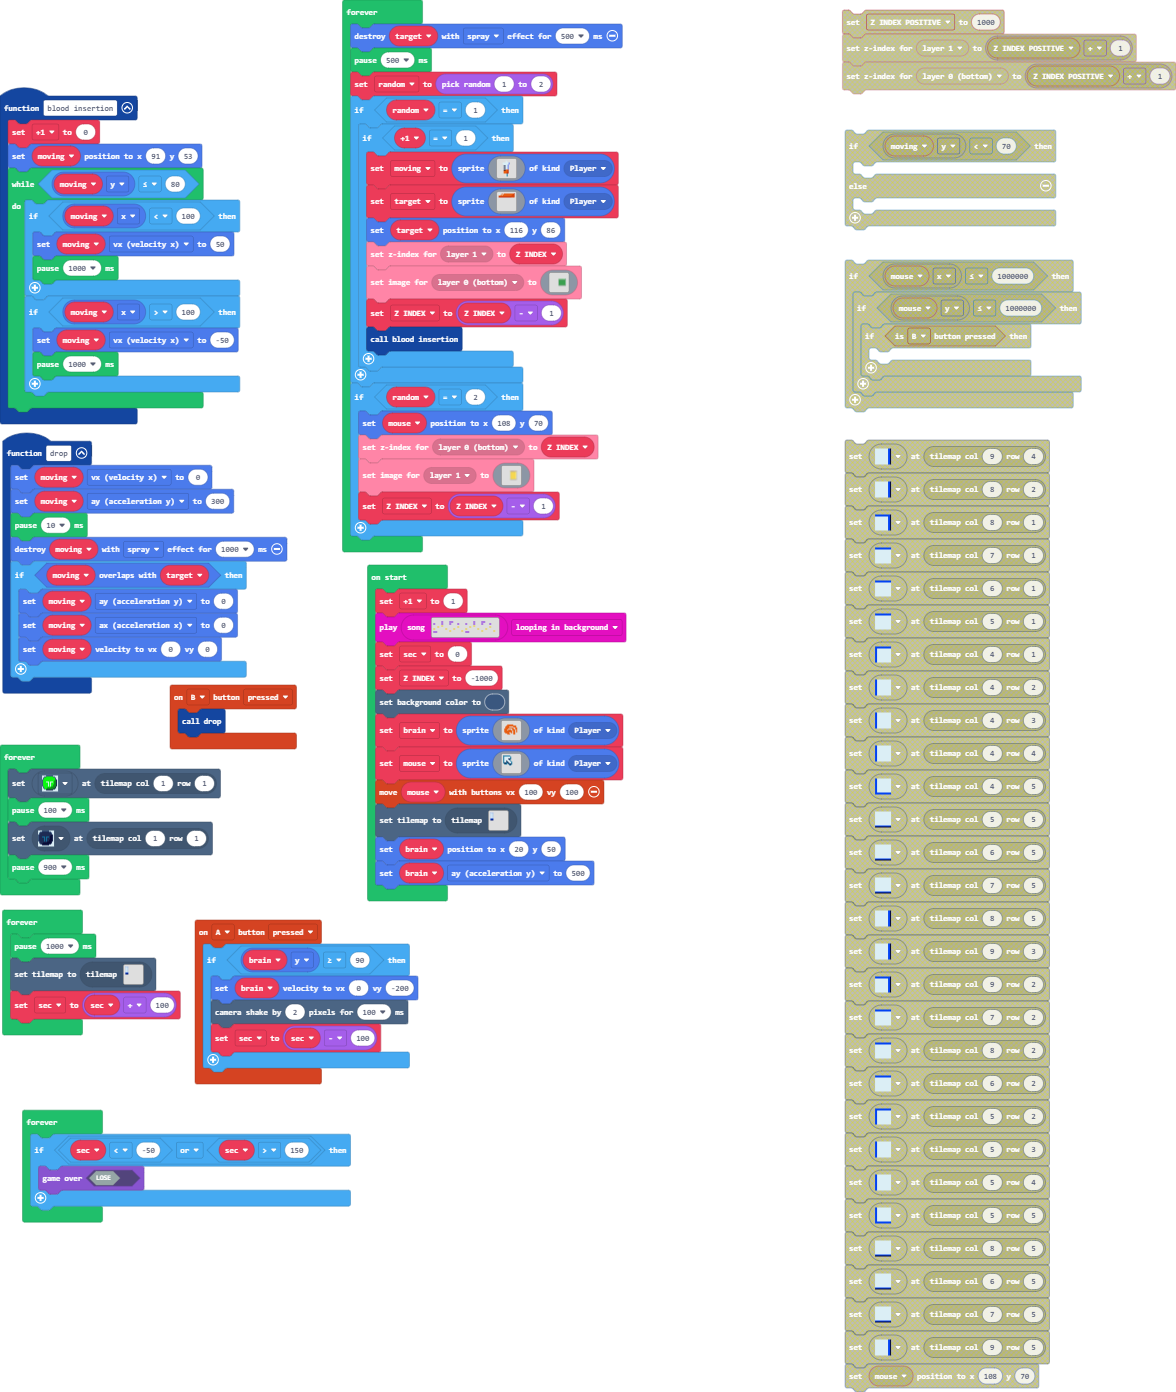
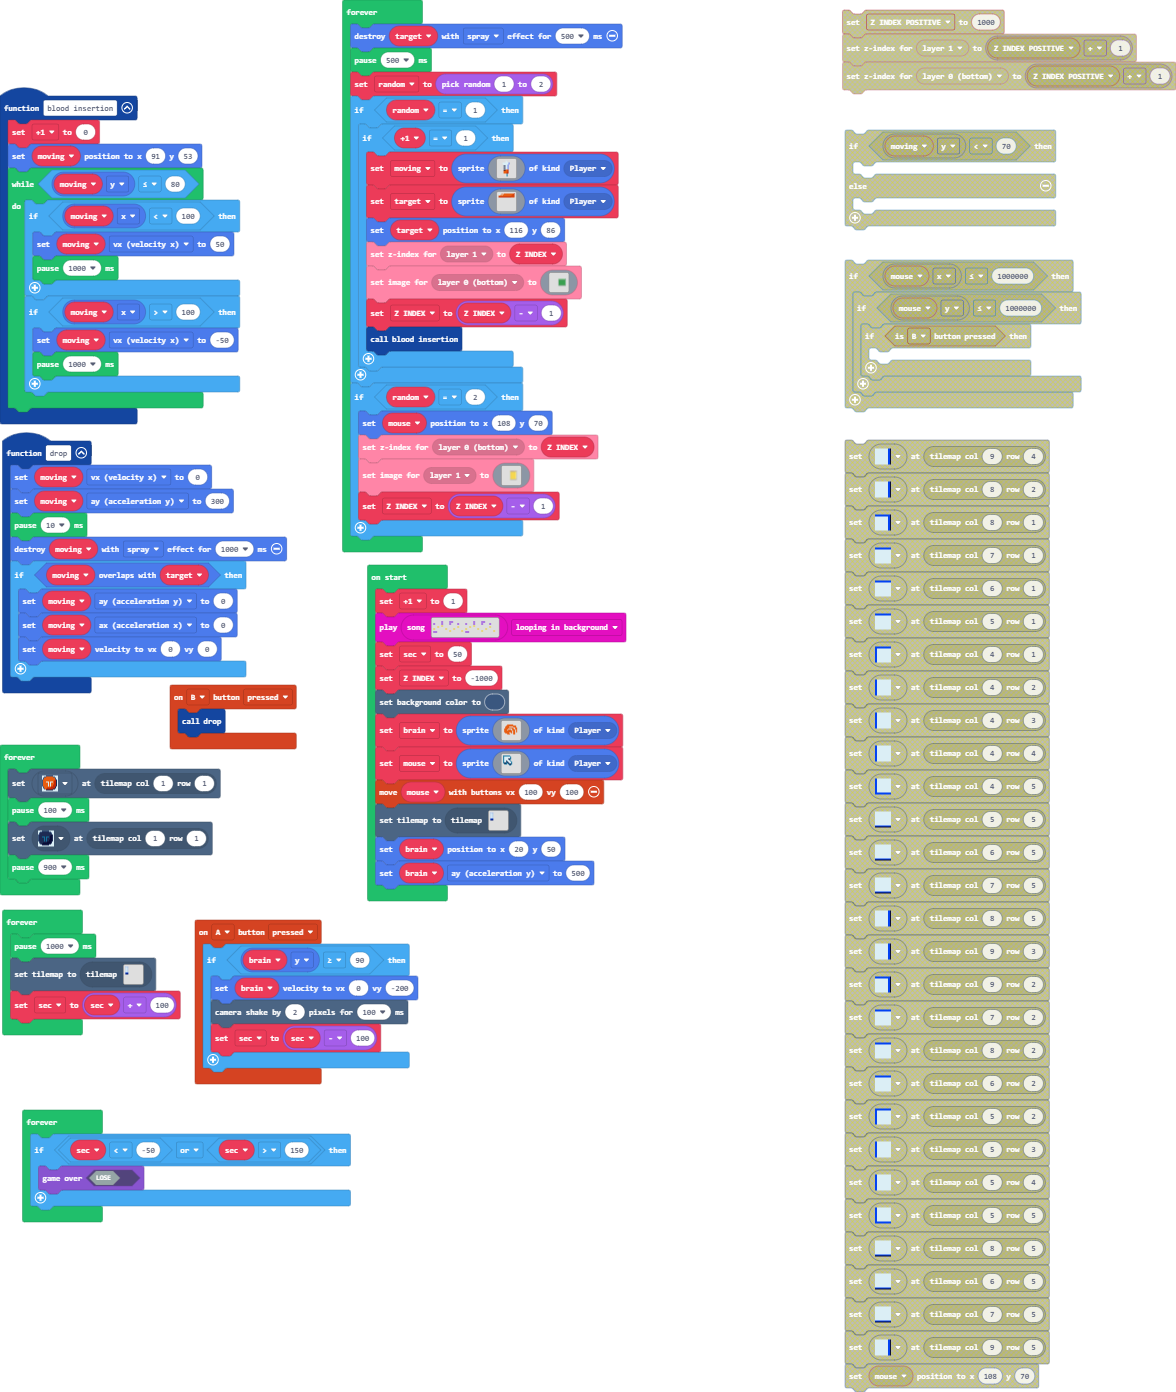
Update main.blocks, main.ts, tilemap.g.ts, images.g.ts

Changed region(s): [[0.0306, 0.3089, 0.0612, 0.4634], [0.1224, 0.3398, 0.1837, 0.3707], [0.0306, 0.556, 0.0612, 0.5869]]

diff --git a/main.ts b/main.ts
@@ -1,3 +1,6 @@
+controller.B.onEvent(ControllerButtonEvent.Pressed, function () {
+    drop()
+})
 controller.A.onEvent(ControllerButtonEvent.Pressed, function () {
     if (brain.y >= 90) {
         brain.setVelocity(0, -200)
@@ -16,9 +19,6 @@ function drop () {
         moving.setVelocity(0, 0)
     }
 }
-controller.B.onEvent(ControllerButtonEvent.Pressed, function () {
-    drop()
-})
 function blood_insertion () {
     _1 = 0
     moving.setPosition(91, 53)
@@ -41,7 +41,7 @@ let sec = 0
 let _1 = 0
 _1 = 1
 music.play(music.createSong(assets.song`bgm`), music.PlaybackMode.LoopingInBackground)
-sec = 0
+sec = 50
 let Z_INDEX = -1000
 scene.setBackgroundColor(3)
 brain = sprites.create(img`

diff --git a/tilemap.g.ts b/tilemap.g.ts
@@ -1,4 +1,4 @@
-// 自动生成的代码。请勿编辑。
+// Auto-generated code. Do not edit.
 namespace myTiles {
     //% fixedInstance jres blockIdentity=images._tile
     export const transparency16 = image.ofBuffer(hex``);
@@ -477,4 +477,4 @@ namespace myTiles {
     })
 
 }
-// 自动生成的代码。请勿编辑。
+// Auto-generated code. Do not edit.

diff --git a/images.g.ts b/images.g.ts
@@ -1,4 +1,4 @@
-// 自动生成的代码。请勿编辑。
+// Auto-generated code. Do not edit.
 namespace myImages {
 
     helpers._registerFactory("image", function(name: string) {
@@ -24,4 +24,4 @@ namespace myImages {
     })
 
 }
-// 自动生成的代码。请勿编辑。
+// Auto-generated code. Do not edit.
